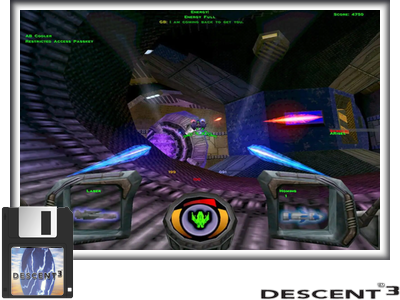
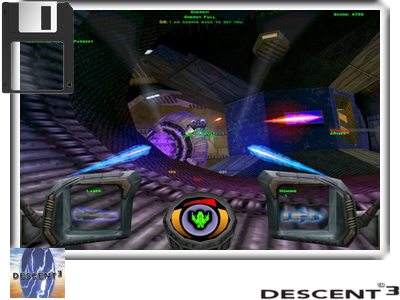
Add rounded corners

diff --git a/mixv1.py b/mixv1.py
@@ -1,6 +1,6 @@
 import os
 import configparser
-from PIL import Image, ImageDraw, ImageFilter
+from PIL import Image, ImageDraw, ImageFilter, ImageOps
 from colorthief import ColorThief
 
 def get_dominant_color(image_path):
@@ -13,7 +13,7 @@ def find_image_by_name(directory, base_name):
             return os.path.join(directory, file)
     return None
 
-def create_3d_bezel(image, bezel_size, dominant_color):
+def create_3d_bezel(image, bezel_size, dominant_color, corner_radius):
     # Create a new image for the bezel with a gradient effect
     width, height = image.size
     bezel_image = Image.new('RGBA', (width + 2 * bezel_size, height + 2 * bezel_size), (0, 0, 0, 0))
@@ -27,8 +27,9 @@ def create_3d_bezel(image, bezel_size, dominant_color):
             int(dominant_color[2] * (1 - i / bezel_size)),
             int(255 * (1 - i / bezel_size))
         )
-        draw.rectangle(
+        draw.rounded_rectangle(
             [i, i, width + 2 * bezel_size - i, height + 2 * bezel_size - i],
+            radius=corner_radius,
             outline=color,
             width=1
         )
@@ -69,6 +70,7 @@ def create_mix_image(config):
 
     safe_width = config.getint('Logo', 'safe_width', fallback=100)
     safe_height = config.getint('Logo', 'safe_height', fallback=100)
+    corner_radius = config.getint('Screenshot', 'corner_radius', fallback=0)  # Default to 0 if not provided
 
     if not os.path.exists(output_folder):
         os.makedirs(output_folder)
@@ -109,7 +111,7 @@ def create_mix_image(config):
                 screenshot_image = screenshot_image.resize(screenshot_size, Image.Resampling.LANCZOS)
                 bezel_size = config.getint('Screenshot', 'bezel_size')
                 dominant_color = get_dominant_color(screenshot_image_path)
-                screenshot_image = create_3d_bezel(screenshot_image, bezel_size, dominant_color)
+                screenshot_image = create_3d_bezel(screenshot_image, bezel_size, dominant_color, corner_radius)
             else:
                 print(f"Warning: Screenshot image missing for {base_name}")
 
@@ -162,18 +164,17 @@ def create_mix_image(config):
                 mix_image.paste(thumb_image, thumb_position, thumb_image) 
 
             if template_image:
-                template_position = tuple(map(int, config.get('Template', 'position').split(',')))
-                template_position = bounds_check(template_position, template_image.size, canvas_size)
+                template_position = (0, 0)
                 mix_image.paste(template_image, template_position, template_image)
 
             # Save the resulting image with compression
             output_path = os.path.join(output_folder, f"{base_name}.png")
-            mix_image.save(output_path, 'PNG', compress_level=compress_level)
+            mix_image.save(output_path, format='PNG', compress_level=compress_level)
 
         except Exception as e:
             print(f"Error processing {base_name}: {e}")
 
-if __name__ == '__main__':
+if __name__ == "__main__":
     config = configparser.ConfigParser()
     config.read('mixv1.ini')
     create_mix_image(config)

diff --git a/README.md b/README.md
@@ -3,7 +3,7 @@ This Python script combines multiple images into a single composite image based 
 
 ### Features
 - Composite Image Creation: Combine thumb, screenshot, logo, and template images onto a single canvas.
-- Bezel Effect: Add a gradient bezel around screenshots for a 3D effect.
+- Bezel Effect: Add a gradient bezel around screenshots for a 3D effect. Supports rounded corners.
 - Flexible Configuration: Control image sizes, positions, and other settings via ini file.
 - Dominant Color Extraction: Automatically adjust bezel color based on the dominant color of screenshots.
 - Bounds Checking: Automatically reposition images if they would exit the canvas area.
@@ -14,6 +14,7 @@ The script uses a configuration file to define:
 - `output_folder`: Directory for saving the resulting images.
 - `canvas_size`: Dimensions of the final composite image.
 - `compress_level`: Compression level for saving images.
+- `bezel_size`, `corner_radius`: Thickness of the bezel and rounded corners.
 - Settings for each image type (thumb, screenshot, logo, template) including size, position, and whether they are enabled.
 
 ### Usage
